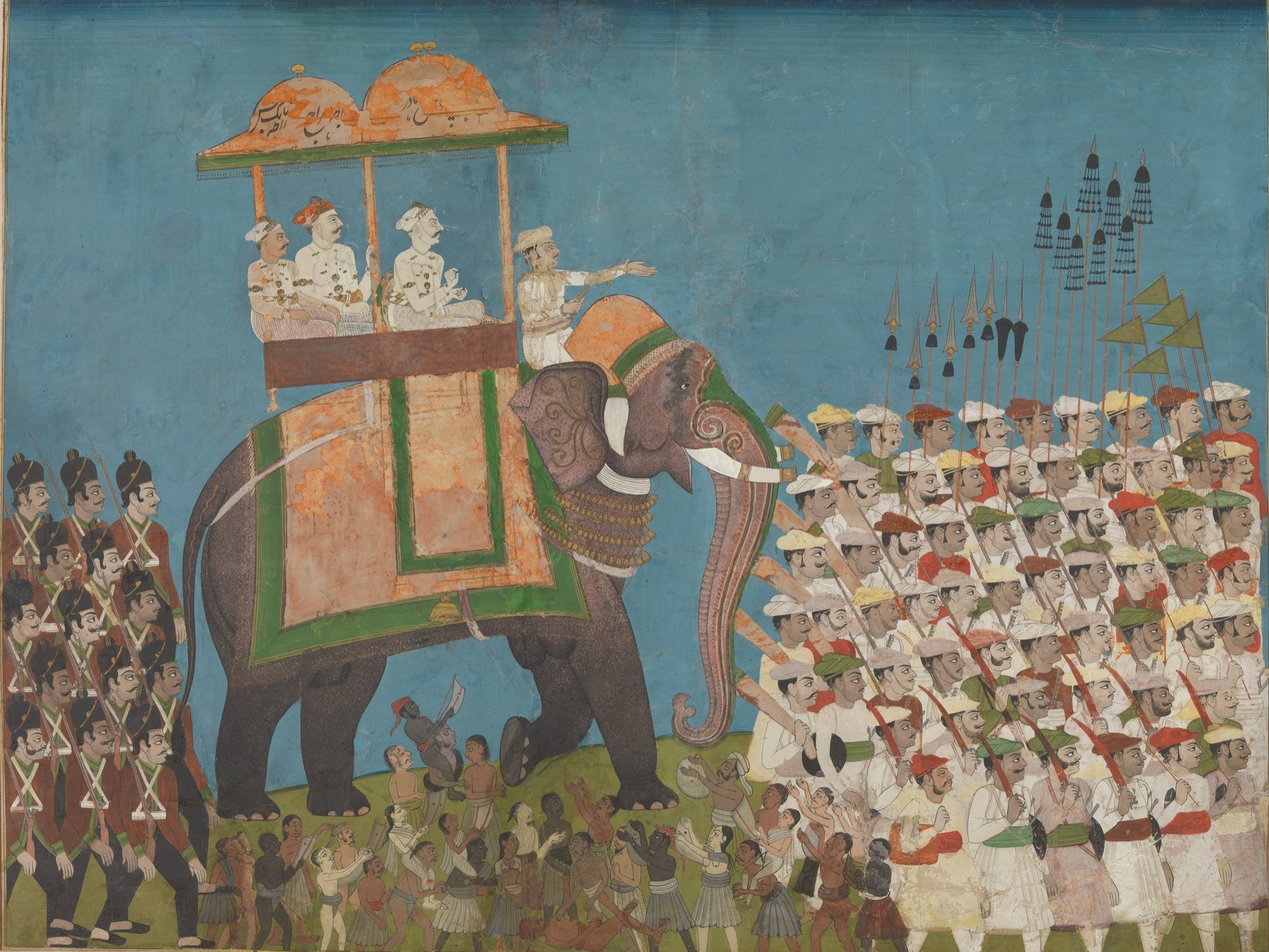
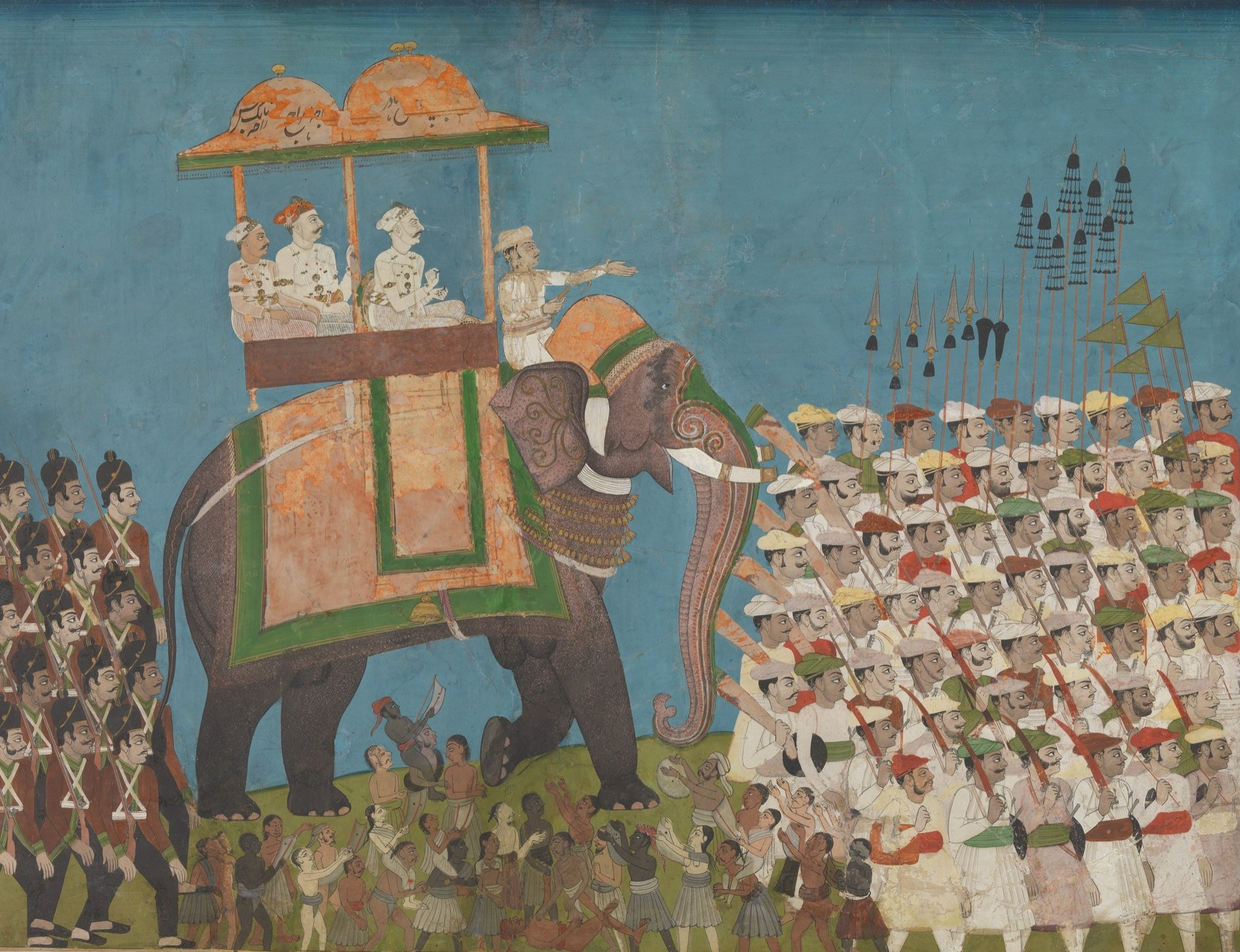
fix(web): show procession heads in hero band; move language switch to navbar dropdown

Changed region(s): [[0.0, 0.0, 0.6538, 1.0], [0.685, 0.0, 1.0, 1.0]]

diff --git a/apps/web/components/Language.tsx b/apps/web/components/Language.tsx
@@ -1,0 +1,112 @@
+"use client";
+
+import { createContext, useContext, useEffect, useRef, useState } from "react";
+
+export type Lang = "en" | "te";
+
+export const languages: { code: Lang; label: string; native: string }[] = [
+  { code: "en", label: "English", native: "English" },
+  { code: "te", label: "Telugu", native: "తెలుగు" },
+];
+
+const LangContext = createContext<{ lang: Lang; setLang: (l: Lang) => void }>({ lang: "en", setLang: () => {} });
+
+export function LanguageProvider({ children }: { children: React.ReactNode }) {
+  const [lang, setLangState] = useState<Lang>("en");
+
+  useEffect(() => {
+    try {
+      const saved = localStorage.getItem("lang");
+      if (saved === "en" || saved === "te") setLangState(saved);
+    } catch {}
+  }, []);
+
+  useEffect(() => {
+    document.documentElement.lang = lang;
+  }, [lang]);
+
+  function setLang(l: Lang) {
+    setLangState(l);
+    try {
+      localStorage.setItem("lang", l);
+    } catch {}
+  }
+
+  return <LangContext.Provider value={{ lang, setLang }}>{children}</LangContext.Provider>;
+}
+
+export function useLang() {
+  return useContext(LangContext);
+}
+
+export function LanguageMenu() {
+  const { lang, setLang } = useLang();
+  const [open, setOpen] = useState(false);
+  const root = useRef<HTMLDivElement>(null);
+  const current = languages.find((l) => l.code === lang)!;
+
+  useEffect(() => {
+    if (!open) return;
+    function onDown(e: PointerEvent) {
+      if (!root.current?.contains(e.target as Node)) setOpen(false);
+    }
+    function onKey(e: KeyboardEvent) {
+      if (e.key === "Escape") setOpen(false);
+    }
+    document.addEventListener("pointerdown", onDown);
+    document.addEventListener("keydown", onKey);
+    return () => {
+      document.removeEventListener("pointerdown", onDown);
+      document.removeEventListener("keydown", onKey);
+    };
+  }, [open]);
+
+  return (
+    <div className="lang" ref={root}>
+      <button
+        type="button"
+        className="lang-trigger"
+        aria-haspopup="menu"
+        aria-expanded={open}
+        aria-label={`Language: ${current.label}`}
+        onClick={() => setOpen((o) => !o)}
+      >
+        <svg viewBox="0 0 20 20" width="18" height="18" aria-hidden="true">
+          <circle cx="10" cy="10" r="7.5" fill="none" stroke="currentColor" strokeWidth="1.6" />
+          <path d="M2.5 10h15M10 2.5c2.2 2.3 3.2 4.8 3.2 7.5s-1 5.2-3.2 7.5c-2.2-2.3-3.2-4.8-3.2-7.5s1-5.2 3.2-7.5Z" fill="none" stroke="currentColor" strokeWidth="1.4" />
+        </svg>
+        <span lang={current.code}>{current.native}</span>
+        <svg className="lang-chev" viewBox="0 0 16 16" width="14" height="14" aria-hidden="true">
+          <path d="M4 6l4 4 4-4" fill="none" stroke="currentColor" strokeWidth="2" strokeLinecap="round" strokeLinejoin="round" />
+        </svg>
+      </button>
+      <ul className="lang-menu" role="menu" data-open={open ? "" : undefined} hidden={!open}>
+        {languages.map((l) => (
+          <li key={l.code} role="none">
+            <button
+              type="button"
+              role="menuitemradio"
+              aria-checked={l.code === lang}
+              className="lang-item"
+              onClick={() => {
+                setLang(l.code);
+                setOpen(false);
+              }}
+            >
+              <span lang={l.code}>{l.native}</span>
+              {l.code !== "en" && <span className="lang-sub">{l.label}</span>}
+              {l.code === lang && (
+                <svg viewBox="0 0 16 16" width="14" height="14" aria-hidden="true">
+                  <path d="M3.5 8.5l3 3 6-7" fill="none" stroke="currentColor" strokeWidth="2.2" strokeLinecap="round" strokeLinejoin="round" />
+                </svg>
+              )}
+            </button>
+          </li>
+        ))}
+        <li role="none" className="lang-soon">
+          हिन्दी and اردو coming next
+        </li>
+      </ul>
+    </div>
+  );
+}

diff --git a/apps/web/app/globals.css b/apps/web/app/globals.css
@@ -206,8 +206,13 @@ img {
     background: var(--ledger);
   }
 }
-.report-link {
+.header-actions {
   margin-left: auto;
+  display: flex;
+  align-items: center;
+  gap: 10px;
+}
+.report-link {
   font-size: var(--t-sm);
   font-weight: 600;
   color: var(--tape-deep);
@@ -237,6 +242,12 @@ img {
   .wordmark-text {
     font-size: 1rem;
     font-stretch: 100%;
+  }
+  .header-actions {
+    gap: 4px;
+  }
+  .lang-trigger > span {
+    display: none;
   }
   .report-link {
     white-space: nowrap;
@@ -274,6 +285,108 @@ img {
   margin: 0;
   padding: 0;
   font-size: var(--t-sm);
+}
+
+/* ---------- language menu ---------- */
+.lang {
+  position: relative;
+}
+.lang-trigger {
+  display: inline-flex;
+  align-items: center;
+  gap: 6px;
+  font: inherit;
+  font-size: var(--t-sm);
+  font-weight: 600;
+  color: var(--ink-2);
+  background: transparent;
+  border: 0;
+  padding: 8px 10px;
+  border-radius: var(--r-control);
+  cursor: pointer;
+  transition: background-color 150ms ease, color 150ms ease, transform 160ms var(--ease-out);
+}
+.lang-trigger:active {
+  transform: scale(0.97);
+}
+.lang-trigger[aria-expanded="true"] {
+  background: var(--ledger);
+  color: var(--ink);
+}
+@media (hover: hover) and (pointer: fine) {
+  .lang-trigger:hover {
+    background: var(--ledger);
+    color: var(--ink);
+  }
+}
+.lang-chev {
+  transition: transform 200ms var(--ease-out);
+}
+.lang-trigger[aria-expanded="true"] .lang-chev {
+  transform: rotate(180deg);
+}
+.lang-menu {
+  position: absolute;
+  top: calc(100% + 6px);
+  right: 0;
+  min-width: 200px;
+  margin: 0;
+  padding: 6px;
+  list-style: none;
+  background: var(--paper);
+  border: 1px solid var(--line);
+  border-radius: 12px;
+  box-shadow: 0 16px 36px -16px rgba(27, 33, 54, 0.35);
+  transform-origin: top right;
+  opacity: 1;
+  transform: scale(1);
+  transition: opacity 160ms var(--ease-out), transform 160ms var(--ease-out);
+  z-index: 60;
+}
+@starting-style {
+  .lang-menu[data-open] {
+    opacity: 0;
+    transform: scale(0.96);
+  }
+}
+.lang-item {
+  width: 100%;
+  display: flex;
+  align-items: center;
+  gap: 8px;
+  padding: 9px 10px;
+  border: 0;
+  border-radius: 8px;
+  background: transparent;
+  font: inherit;
+  font-size: var(--t-md);
+  color: var(--ink);
+  text-align: left;
+  cursor: pointer;
+}
+.lang-item[aria-checked="true"] {
+  color: var(--violet-deep);
+  font-weight: 600;
+}
+.lang-item svg {
+  margin-left: auto;
+}
+.lang-sub {
+  font-size: var(--t-xs);
+  color: var(--ink-3);
+  font-family: var(--font-body);
+}
+@media (hover: hover) and (pointer: fine) {
+  .lang-item:hover {
+    background: var(--ledger);
+  }
+}
+.lang-soon {
+  padding: 8px 10px 4px;
+  margin-top: 4px;
+  border-top: 1px solid var(--line);
+  font-size: var(--t-xs);
+  color: var(--ink-3);
 }
 
 /* ---------- buttons ---------- */

diff --git a/apps/web/app/layout.tsx b/apps/web/app/layout.tsx
@@ -2,6 +2,7 @@ import type { Metadata, Viewport } from "next";
 import { Anek_Latin, Anek_Telugu, Mukta } from "next/font/google";
 import { SiteHeader } from "@/components/SiteHeader";
 import { SiteFooter } from "@/components/SiteFooter";
+import { LanguageProvider } from "@/components/Language";
 import "./globals.css";
 
 const display = Anek_Latin({
@@ -39,12 +40,14 @@ export default function RootLayout({ children }: { children: React.ReactNode }) 
   return (
     <html lang="en" className={`${display.variable} ${telugu.variable} ${body.variable}`}>
       <body>
-        <a className="skip" href="#main">
-          Skip to content
-        </a>
-        <SiteHeader />
-        <main id="main">{children}</main>
-        <SiteFooter />
+        <LanguageProvider>
+          <a className="skip" href="#main">
+            Skip to content
+          </a>
+          <SiteHeader />
+          <main id="main">{children}</main>
+          <SiteFooter />
+        </LanguageProvider>
       </body>
     </html>
   );

diff --git a/apps/web/components/HeroCopy.tsx b/apps/web/components/HeroCopy.tsx
@@ -1,6 +1,6 @@
 "use client";
 
-import { useState } from "react";
+import { useLang } from "./Language";
 import styles from "@/app/home.module.css";
 
 const copy = {
@@ -15,18 +15,10 @@ const copy = {
 };
 
 export function HeroCopy() {
-  const [lang, setLang] = useState<"en" | "te">("en");
+  const { lang } = useLang();
   const c = copy[lang];
   return (
     <div className={styles.heroCopy} lang={lang}>
-      <div className={styles.langToggle} role="group" aria-label="Language">
-        <button type="button" aria-pressed={lang === "en"} onClick={() => setLang("en")}>
-          English
-        </button>
-        <button type="button" aria-pressed={lang === "te"} onClick={() => setLang("te")} lang="te">
-          తెలుగు
-        </button>
-      </div>
       <h1 className={styles.heroTitle} data-lang={lang}>
         {c.h}
       </h1>

diff --git a/apps/web/app/home.module.css b/apps/web/app/home.module.css
@@ -35,33 +35,6 @@
   color: var(--ink-2);
   max-width: 46ch;
 }
-.langToggle {
-  display: inline-flex;
-  justify-self: start;
-  padding: 3px;
-  border-radius: var(--r-pill);
-  background: var(--ledger);
-}
-.langToggle button {
-  font: inherit;
-  font-size: var(--t-sm);
-  font-weight: 600;
-  border: 0;
-  padding: 5px 14px;
-  border-radius: var(--r-pill);
-  background: transparent;
-  color: var(--ink-2);
-  cursor: pointer;
-  transition: background-color 150ms ease, color 150ms ease, transform 160ms var(--ease-out);
-}
-.langToggle button:active {
-  transform: scale(0.97);
-}
-.langToggle button[aria-pressed="true"] {
-  background: var(--paper);
-  color: var(--ink);
-  box-shadow: 0 1px 2px rgba(27, 33, 54, 0.12);
-}
 
 /* The buff file cover holding the address sheet. */
 .fileCover {

diff --git a/apps/web/components/SiteHeader.tsx b/apps/web/components/SiteHeader.tsx
@@ -3,6 +3,7 @@
 import Link from "next/link";
 import { usePathname } from "next/navigation";
 import { Wordmark } from "./Wordmark";
+import { LanguageMenu } from "./Language";
 
 const nav = [
   { href: "/start", label: "Start" },
@@ -30,9 +31,12 @@ export function SiteHeader() {
             ))}
           </ul>
         </nav>
-        <Link href="/report" className="report-link">
-          Report a bribe demand
-        </Link>
+        <div className="header-actions">
+          <LanguageMenu />
+          <Link href="/report" className="report-link">
+            Report a bribe demand
+          </Link>
+        </div>
       </div>
     </header>
   );

diff --git a/apps/web/lib/art.ts b/apps/web/lib/art.ts
@@ -13,9 +13,9 @@ export const art: Record<string, ArtEntry | undefined> = {
     src: "/art/hyderabad-nobles-elephant-procession-cropped.jpg",
     alt: "A painted procession in Hyderabad: three noblemen on a decorated elephant, followed by rows of attendants and soldiers.",
     credit: "Attributed to Venkatchellum, Three Noblemen in Procession on an Elephant, Hyderabad, c. 1790. The Metropolitan Museum of Art, CC0.",
-    width: 1940,
+    width: 1895,
     height: 1455,
-    position: "50% 38%",
+    position: "50% 4%",
   },
   sweets: {
     src: "/art/company-school-confectioners-shop-patna-cropped.jpg",

diff --git a/apps/web/components/Art.module.css b/apps/web/components/Art.module.css
@@ -8,7 +8,7 @@
   border-radius: var(--r-paper);
 }
 .figure[data-variant="band"] .frame {
-  height: clamp(220px, 34vw, 440px);
+  height: clamp(240px, 38vw, 520px);
   border-radius: 0;
 }
 .figure[data-variant="inset"] .frame {
